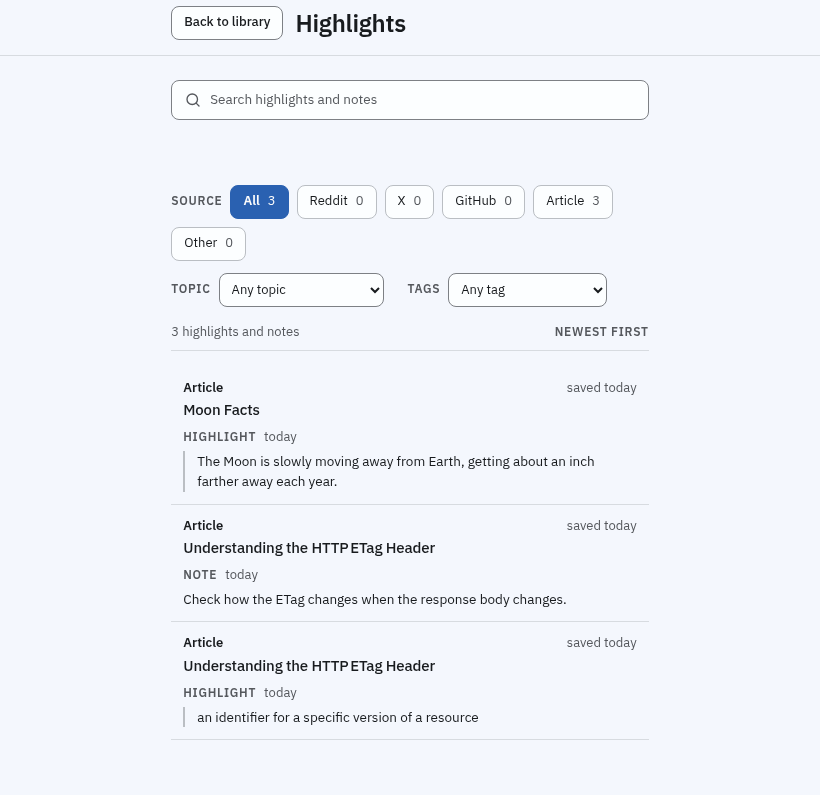
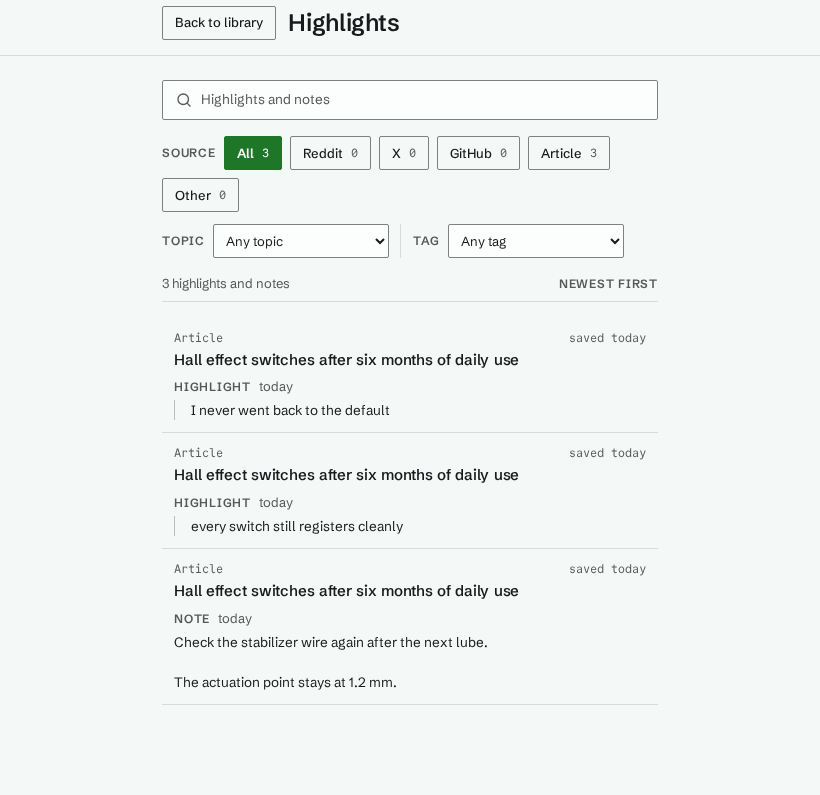
docs(readme): retake the Topic page and Highlights shots on made-up Items
The Topic page in the Library, Monocle and Modal Styles and the Highlights page
now show the Library Style pages on made-up Items. The Reader screenshot and
the Paste recording keep their library of public links.

Refs: https://github.com/KyaniteHQ/threadsift/issues/794

diff --git a/README.md b/README.md
@@ -14,13 +14,13 @@ v1 is not released, so do not use Threadsift for real yet.
 
 ![A Paste of an MDN article on HTTP conditional requests shows its progress. The Reader then displays the Digest with its Summary and Key points.](docs/assets/paste-to-digest.gif)
 
-The recording and screenshots use a library of public links. The recording skips part of the wait for the Digest.
+The recording and the first screenshot use a library of public links, and the other screenshots use made-up Items. The recording skips part of the wait for the Digest.
 
 ## Keep Highlights and Notes
 
 Select a passage of the post text or of a comment in the Reader to keep it as a Highlight. You can also write a Note on the Item. The Highlights page gathers both and links back to the Reader.
 
-![Highlights page with saved passages and a Note from the library's public articles](docs/assets/highlights.png)
+![Highlights page with two Highlights and a Note on a made-up article about Hall effect switches](docs/assets/highlights.png)
 
 ## Let the agent keep a wiki of the library
 
@@ -30,7 +30,7 @@ The screenshots show the same Topic page in three Styles: Library, Monocle, and 
 
 | Library · Light | Monocle · Sepia | Modal · Dark |
 | --- | --- | --- |
-| ![Astronomy Topic page in the Library Style and Light Theme](docs/assets/topic-library.png) | ![Astronomy Topic page in the Monocle Style and Sepia Theme](docs/assets/topic-monocle.png) | ![Astronomy Topic page in the Modal Style and Dark Theme](docs/assets/topic-modal.png) |
+| ![Home servers Topic page in the Library Style and Light Theme](docs/assets/topic-library.png) | ![Home servers Topic page in the Monocle Style and Sepia Theme](docs/assets/topic-monocle.png) | ![Home servers Topic page in the Modal Style and Dark Theme](docs/assets/topic-modal.png) |
 
 ## Save from wherever you are
 
